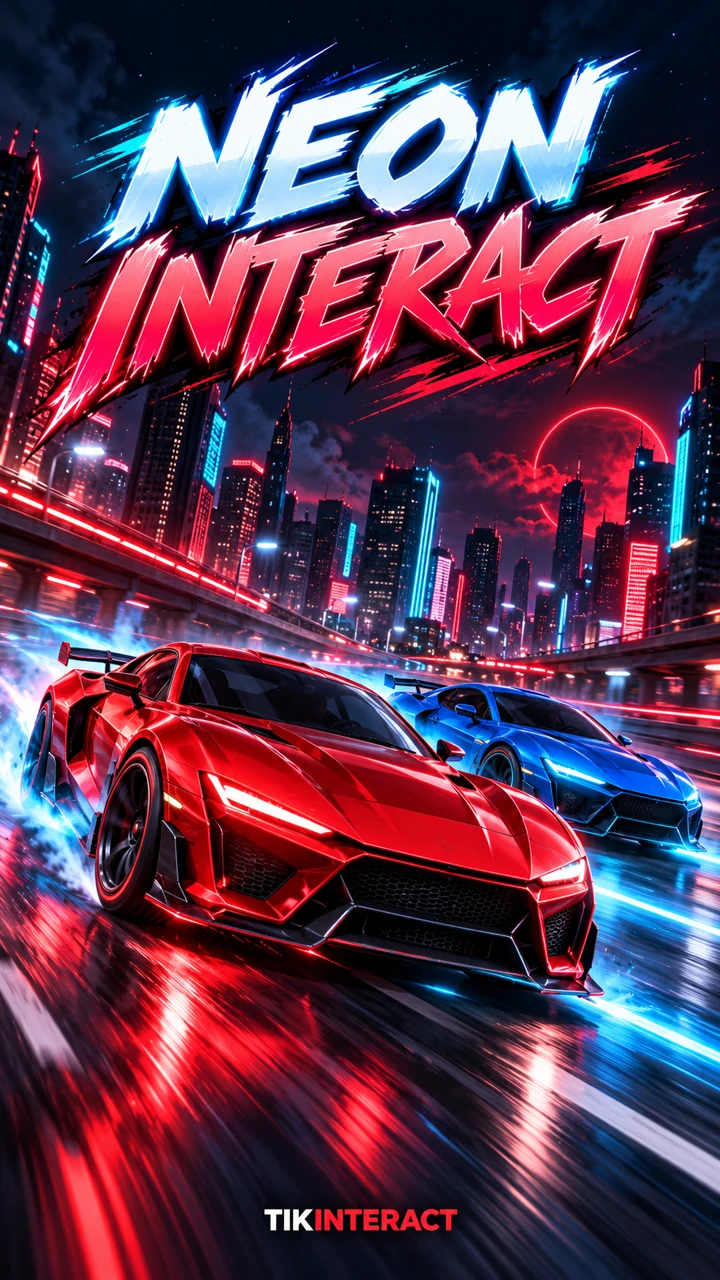
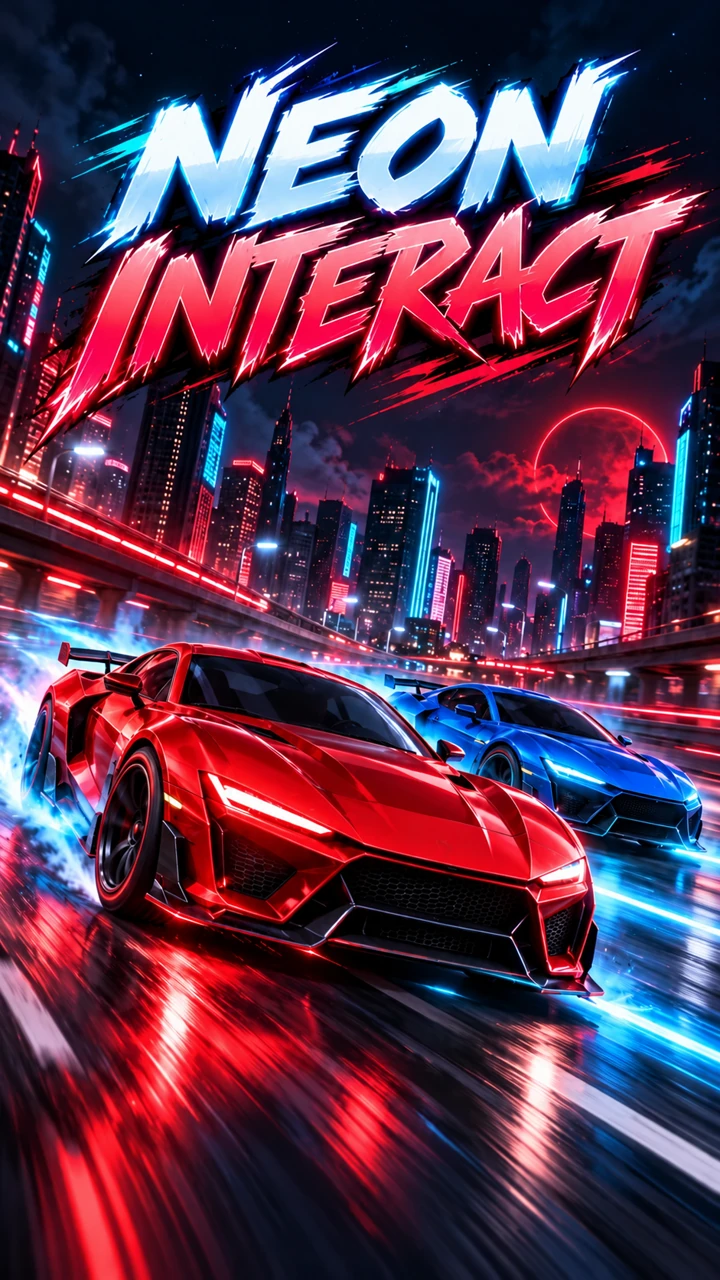
Compact game cover grids and remove cover brand wordmarks

diff --git a/index.html b/index.html
@@ -63,7 +63,7 @@
     <link rel="stylesheet" href="assets/site-template.css?v=13">
     <link rel="stylesheet" href="assets/home-gifts.css?v=1">
     <script src="assets/home-gifts.js?v=1" defer></script>
-    <link rel="stylesheet" href="assets/game-covers.css?v=1">
+    <link rel="stylesheet" href="assets/game-covers.css?v=2">
     <link rel="stylesheet" href="assets/home-nova.css?v=1">
     <script src="assets/home-nova.js?v=1" defer></script>
 <link rel="stylesheet" href="assets/tiktok-gifts.css?v=6"><script type="module" src="assets/tiktok-gifts.js?v=3"></script></head>
@@ -216,9 +216,9 @@
 
         <div class="home-content max-w-7xl mx-auto px-6 py-12">
             <section class="home-nova" data-home-nova aria-labelledby="home-nova-title">
-                <a class="home-nova-cover" href="GAME/NOVA-VEX/index.html"><img src="assets/game-gallery/nova-vex-cover.webp" alt="Coperta NOVA &amp; VEX, Nova și Vex în orașul neon" width="720" height="1280" loading="lazy"><span>JOC GRATUIT</span></a>
+                <a class="home-nova-cover" href="GAME/NOVA-VEX/index.html"><img src="assets/game-gallery/nova-vex-cover.webp?v=2" alt="Coperta NOVA &amp; VEX, Nova și Vex în orașul neon" width="720" height="1280" loading="lazy"><span>JOC GRATUIT</span></a>
                 <div class="home-nova-copy"><span class="eyebrow">NOU ÎN TIKINTERACT</span><h2 id="home-nova-title"><span>NOVA</span> &amp; <em>VEX</em></h2><h3>Nova urcă.<br>Vex schimbă planul.</h3><p>Un jetpack te ridică. Vex te prinde pe placa lui și te duce în jos. Comunitatea decide următoarea mișcare, prin cadourile alese de tine.</p><div class="home-nova-features"><span>8 peisaje neon</span><span>Cadouri configurabile</span><span>Format LIVE 9:16</span></div><a class="home-primary-button" href="GAME/NOVA-VEX/index.html">Descoperă jocul <i class="fa-solid fa-arrow-right" aria-hidden="true"></i></a></div>
-                <div class="home-nova-demo"><div class="home-nova-topline"><span>O PRIVIRE ÎN JOC</span><button type="button" data-nova-pause aria-label="Pauză animație NOVA &amp; VEX" aria-pressed="false">Pauză</button></div><canvas data-nova-canvas width="600" height="720" role="img" aria-label="Prezentare animată NOVA &amp; VEX: Nova sare, zboară cu jetpack-ul, iar Vex o prinde pe placa lui."></canvas><img class="home-nova-fallback" src="assets/game-gallery/nova-vex-cover.webp" alt="" loading="lazy"><div class="home-nova-caption"><strong data-nova-scene>Nova își începe urcarea</strong><span data-nova-effect>GRATUIT</span></div></div>
+                <div class="home-nova-demo"><div class="home-nova-topline"><span>O PRIVIRE ÎN JOC</span><button type="button" data-nova-pause aria-label="Pauză animație NOVA &amp; VEX" aria-pressed="false">Pauză</button></div><canvas data-nova-canvas width="600" height="720" role="img" aria-label="Prezentare animată NOVA &amp; VEX: Nova sare, zboară cu jetpack-ul, iar Vex o prinde pe placa lui."></canvas><img class="home-nova-fallback" src="assets/game-gallery/nova-vex-cover.webp?v=2" alt="" loading="lazy"><div class="home-nova-caption"><strong data-nova-scene>Nova își începe urcarea</strong><span data-nova-effect>GRATUIT</span></div></div>
             </section>
             <section class="home-gifts" data-home-gifts aria-labelledby="home-gifts-title">
                 <div class="home-gifts-copy">
@@ -290,13 +290,13 @@
             <h2 id="catalog-free-title" class="mb-4 text-xl font-extrabold text-white">GRATUITE</h2>
             <div class="grid grid-cols-1 md:grid-cols-2 xl:grid-cols-4 gap-6">
                 <a href="GAME/NEON-INTERACT/index.html" class="premium-card game-catalog-card game-cover-card" aria-label="Vezi prezentarea NEON INTERACT">
-                    <img src="assets/game-gallery/neon-interact-cover.webp" alt="Coperta NEON INTERACT" class="game-card-preview" width="720" height="1280" loading="lazy" decoding="async">
+                    <img src="assets/game-gallery/neon-interact-cover.webp?v=2" alt="Coperta NEON INTERACT" class="game-card-preview" width="720" height="1280" loading="lazy" decoding="async">
                 </a>
                 <a href="GAME/MOTO-INTERACT/index.html" class="premium-card game-catalog-card game-cover-card" aria-label="Vezi prezentarea MOTO INTERACT">
-                    <img src="assets/game-gallery/moto-interact-cover.webp" alt="Coperta MOTO INTERACT" class="game-card-preview" width="720" height="1280" loading="lazy" decoding="async">
+                    <img src="assets/game-gallery/moto-interact-cover.webp?v=2" alt="Coperta MOTO INTERACT" class="game-card-preview" width="720" height="1280" loading="lazy" decoding="async">
                 </a>
                 <a href="GAME/NOVA-VEX/index.html" class="premium-card game-catalog-card game-cover-card" aria-label="Vezi prezentarea NOVA &amp; VEX">
-                    <img src="assets/game-gallery/nova-vex-cover.webp" alt="Coperta NOVA &amp; VEX" class="game-card-preview" width="720" height="1280" loading="lazy" decoding="async">
+                    <img src="assets/game-gallery/nova-vex-cover.webp?v=2" alt="Coperta NOVA &amp; VEX" class="game-card-preview" width="720" height="1280" loading="lazy" decoding="async">
                 </a>
             </div>
         </section>

diff --git a/live-studio.html b/live-studio.html
@@ -57,7 +57,7 @@
     <link rel="stylesheet" href="assets/studio-layout.css?v=4">
     <link rel="stylesheet" href="assets/modern-ui.css?v=11">
     <link rel="stylesheet" href="assets/typography.css?v=1">
-<link rel="stylesheet" href="assets/site-template.css?v=13"><link rel="stylesheet" href="assets/studio-app.css?v=6"><link rel="stylesheet" href="assets/game-covers.css?v=1"><link rel="stylesheet" href="assets/tiktok-gifts.css?v=6"><script type="module" src="assets/tiktok-gifts.js?v=3"></script></head><body data-page="studio" class="studio-app studio-locked site-template min-h-screen flex flex-col selection:bg-red-600 selection:text-white"><header class="template-header app-topbar"><div class="site-header-inner"><a class="template-brand" href="index.html" aria-label="TikInteract — Acasă"><img src="assets/tikinteract-icon-v2.png" alt="" width="38" height="38"><span>TIK<span>INTERACT</span></span></a><div class="app-topbar-title"><span>LIVE STUDIO</span><span class="app-browser-label"><i class="fa-solid fa-globe" aria-hidden="true"></i> Browser</span></div><div class="header-account-actions flex items-center gap-4">
+<link rel="stylesheet" href="assets/site-template.css?v=13"><link rel="stylesheet" href="assets/studio-app.css?v=6"><link rel="stylesheet" href="assets/game-covers.css?v=2"><link rel="stylesheet" href="assets/tiktok-gifts.css?v=6"><script type="module" src="assets/tiktok-gifts.js?v=3"></script></head><body data-page="studio" class="studio-app studio-locked site-template min-h-screen flex flex-col selection:bg-red-600 selection:text-white"><header class="template-header app-topbar"><div class="site-header-inner"><a class="template-brand" href="index.html" aria-label="TikInteract — Acasă"><img src="assets/tikinteract-icon-v2.png" alt="" width="38" height="38"><span>TIK<span>INTERACT</span></span></a><div class="app-topbar-title"><span>LIVE STUDIO</span><span class="app-browser-label"><i class="fa-solid fa-globe" aria-hidden="true"></i> Browser</span></div><div class="header-account-actions flex items-center gap-4">
                 <span id="account-status-indicator" class="account-status-dot is-inactive" role="status" aria-label="Cont inactiv" title="Cont inactiv"></span>
                 <span id="header-account-avatar" class="header-account-avatar hidden" aria-label="Poza de profil TikTok">
                     <span id="header-account-avatar-fallback">U</span>
@@ -346,15 +346,15 @@
                     <h4 class="mb-4 text-sm font-extrabold tracking-wide text-white">GRATUITE</h4>
                     <div class="game-center-grid">
                     <article class="game-center-card game-cover-card" data-game-id="neon-race-2" data-game-center-card="Neon Interact night run curse masini noapte" aria-label="Neon Interact">
-                        <img src="assets/game-gallery/neon-interact-cover.webp" alt="Coperta Neon Interact" width="720" height="1280" loading="lazy" decoding="async">
+                        <img src="assets/game-gallery/neon-interact-cover.webp?v=2" alt="Coperta Neon Interact" width="720" height="1280" loading="lazy" decoding="async">
                         <div class="game-center-card-body"><button type="button" aria-label="Deschide ?n Studio: Neon Interact" onclick="launchStudioGame('neon-race-2')">Deschide în Studio <i class="fa-solid fa-arrow-right" aria-hidden="true"></i></button></div>
                     </article>
                     <article class="game-center-card game-cover-card" data-game-id="moto-interact" data-game-center-card="Moto Interact motociclete moto motorete zi day ride wheelie nitro" aria-label="Moto Interact">
-                        <img src="assets/game-gallery/moto-interact-cover.webp" alt="Coperta Moto Interact" width="720" height="1280" loading="lazy" decoding="async">
+                        <img src="assets/game-gallery/moto-interact-cover.webp?v=2" alt="Coperta Moto Interact" width="720" height="1280" loading="lazy" decoding="async">
                         <div class="game-center-card-body"><button type="button" aria-label="Deschide ?n Studio: Moto Interact" onclick="launchStudioGame('moto-interact')">Deschide în Studio <i class="fa-solid fa-arrow-right" aria-hidden="true"></i></button></div>
                     </article>
                     <article class="game-center-card game-cover-card" data-game-id="nova-vex" data-game-center-card="Nova Vex platforme parkour neon inaltime cadouri gratuit" aria-label="NOVA &amp; VEX">
-                        <img src="assets/game-gallery/nova-vex-cover.webp" alt="Coperta NOVA &amp; VEX" width="720" height="1280" loading="lazy" decoding="async">
+                        <img src="assets/game-gallery/nova-vex-cover.webp?v=2" alt="Coperta NOVA &amp; VEX" width="720" height="1280" loading="lazy" decoding="async">
                         <div class="game-center-card-body"><button type="button" aria-label="Deschide ?n Studio: NOVA &amp; VEX" onclick="launchStudioGame('nova-vex')">Deschide în Studio <i class="fa-solid fa-arrow-right" aria-hidden="true"></i></button></div>
                     </article>
                     </div>

diff --git a/assets/game-covers.css b/assets/game-covers.css
@@ -1,13 +1,15 @@
 /* Shared poster library: the complete cover remains visible at every width. */
 .site-template #view-catalog > section > .grid,
-.site-template #view-catalog > section:first-of-type > .grid {
-    grid-template-columns: repeat(3, minmax(0, 1fr));
-    gap: 22px;
+.site-template #view-catalog > section:first-of-type > .grid,
+.studio-app .game-center-grid {
+    grid-template-columns: repeat(auto-fill, minmax(160px, 200px));
+    gap: 14px;
+    justify-content: start;
 }
 .site-template #view-catalog .game-cover-card {
     display: block;
     padding: 0;
-    border-radius: 16px;
+    border-radius: 11px;
     overflow: hidden;
     background: #111114;
 }
@@ -30,48 +32,47 @@
     outline-offset: 4px;
 }
 .studio-app .game-center-card.game-cover-card {
-    border-radius: 16px;
+    border-radius: 11px;
     overflow: hidden;
 }
 .studio-app .game-cover-card .game-center-card-body {
-    padding: 12px;
+    padding: 8px;
 }
 .studio-app .game-cover-card .game-center-card-body > button {
     margin: 0;
-    min-height: 44px;
-    font-size: 11px;
+    min-height: 40px;
+    padding: 10px 8px;
+    justify-content: center;
+    gap: 5px;
+    font-size: 10px;
 }
+.studio-app .game-cover-card .game-center-card-body > button > i { display: none; }
 .studio-app .game-cover-card > .game-favorite-star {
-    width: 34px;
-    height: 34px;
-    top: 10px;
-    right: 10px;
-    font-size: 21px;
+    width: 28px;
+    height: 28px;
+    top: auto;
+    bottom: 64px;
+    right: 7px;
+    font-size: 18px;
     border: 1px solid #ffffff40;
     border-radius: 50%;
     background: #0b0b12cf;
     backdrop-filter: blur(8px);
 }
-@media (max-width: 820px) {
-    .site-template #view-catalog > section > .grid,
-    .site-template #view-catalog > section:first-of-type > .grid {
-        grid-template-columns: repeat(2, minmax(0, 1fr));
-        gap: 16px;
-    }
-}
 @media (max-width: 600px) {
+    .site-template #view-catalog > section > .grid,
+    .site-template #view-catalog > section:first-of-type > .grid,
     .studio-app .game-center-grid {
-        grid-template-columns: repeat(2, minmax(0, 1fr));
-        gap: 12px;
+        grid-template-columns: repeat(3, minmax(0, 1fr));
+        gap: 9px;
     }
-    .studio-app .game-cover-card .game-center-card-body { padding: 8px; }
+    .studio-app .game-cover-card .game-center-card-body { padding: 5px; }
     .studio-app .game-cover-card .game-center-card-body > button {
-        padding: 10px 8px;
-        gap: 5px;
-        font-size: 10px;
-        justify-content: center;
+        padding: 7px 4px;
+        font-size: 9px;
+        line-height: 1.4;
     }
-    .studio-app .game-cover-card .game-center-card-body > button > i { display: none; }
+    .studio-app .game-cover-card > .game-favorite-star { bottom: 56px; }
 }
 @media (prefers-reduced-motion: reduce) {
     .game-cover-card { transition: none; }
